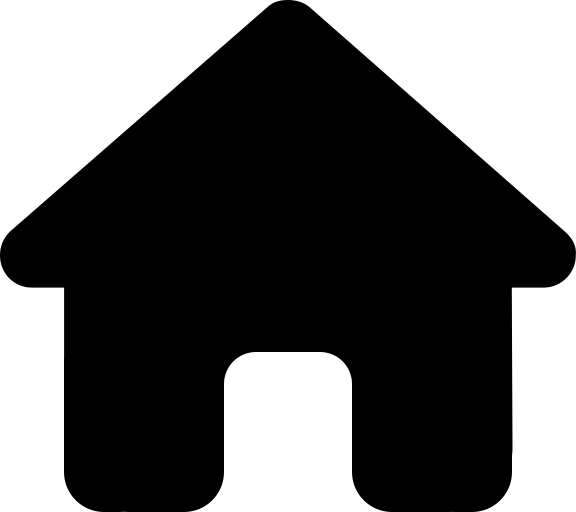
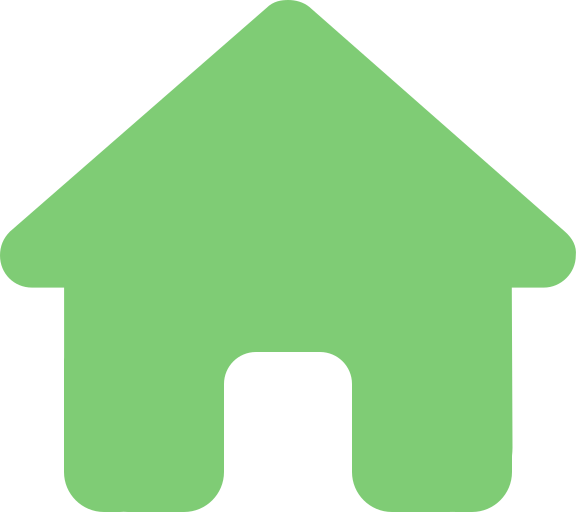
added houses to the map (The ps-housing does not work yet only the normal qb-housing)

diff --git a/backend/index.js b/backend/index.js
@@ -36,22 +36,49 @@ db.connect((err) => {
 
 app.get('/getData', (req, res) => {
     const usingPsMdt = req.query.usingPsMdt === 'true';
+    const usingPsHousing = req.query.usingPsHousing === 'true';
 
-    const sql = `
+    let sql = `
         SELECT players.*, 
-               player_vehicles.vehicle, 
-               player_vehicles.plate, 
-               player_vehicles.garage, 
-               player_vehicles.fuel, 
-               player_vehicles.engine, 
-               player_vehicles.body, 
-               player_vehicles.drivingdistance, 
-               player_vehicles.mods,
-               mdt_data.pfp
+            player_vehicles.vehicle, 
+            player_vehicles.plate, 
+            player_vehicles.garage, 
+            player_vehicles.fuel, 
+            player_vehicles.engine, 
+            player_vehicles.body, 
+            player_vehicles.drivingdistance, 
+            player_vehicles.mods
+    `;
+
+    if (usingPsMdt) {
+        sql += `, mdt_data.pfp`;
+    }
+
+    if (usingPsHousing) {
+        sql += `, properties.door_data as house_coords`;
+    } else {
+        sql += `, houselocations.coords as house_coords`;
+    }
+
+    sql += `
         FROM players 
         LEFT JOIN player_vehicles ON players.citizenid = player_vehicles.citizenid
-        LEFT JOIN mdt_data ON players.citizenid = mdt_data.cid
     `;
+
+    if (usingPsMdt) {
+        sql += `LEFT JOIN mdt_data ON players.citizenid = mdt_data.cid `;
+    }
+
+    if (usingPsHousing) {
+        sql += `
+        LEFT JOIN properties ON players.citizenid = properties.owner_citizenid
+        `;
+    } else {
+        sql += `
+        LEFT JOIN player_houses ON players.citizenid = player_houses.citizenid
+        LEFT JOIN houselocations ON player_houses.house = houselocations.name
+        `;
+    }
 
     db.query(sql, (err, results) => {
         if (err) throw err;
@@ -71,11 +98,29 @@ app.get('/getData', (req, res) => {
                     inventory: row.inventory,
                     vehicles: [],
                 };
+    
                 if (usingPsMdt) {
                     acc[row.citizenid].pfp = row.pfp;
                 }
+    
+                if (usingPsHousing && row.house_coords) {
+                    const coords = JSON.parse(row.house_coords);
+                    console.log('Row data:', row);
+                    console.log(coords)
+                    acc[row.citizenid].house_coords = {
+                        x: coords.x,
+                        y: coords.y,
+                        z: coords.z
+                    };
+                } else if (!usingPsHousing && row.house_coords) {
+                    const coords = JSON.parse(row.house_coords);
+                    const enterCoords = coords.enter;
+                    acc[row.citizenid].house_coords = enterCoords;
+                } else {
+                    acc[row.citizenid].house_coords = null;
+                }                
             }
-
+    
             if (row.vehicle) {
                 acc[row.citizenid].vehicles.push({
                     vehicle: row.vehicle,
@@ -90,9 +135,9 @@ app.get('/getData', (req, res) => {
             }
             return acc;
         }, {});
-
+    
         res.json(Object.values(aggregatedResults));
-    });
+    });    
 });
 
 // Endpoint to save session duration

diff --git a/src/components/MapModal.tsx b/src/components/MapModal.tsx
@@ -5,7 +5,15 @@ import GtaMap from './../mapassets/gtav-map-atlas-huge.jpg';
 import PlayerMarker from './../mapassets/user-solid.png';
 import HouseMarker from './../mapassets/house-solid.png';
 
-function MapModal({ open, handleClose, position, darkMode }: { open: boolean, handleClose: () => void, position: { x: number, y: number, z: number }, darkMode: boolean }) {
+interface DataItem {
+  x: number;
+  y: number;
+  z?: number;
+}
+
+type Coordinate = { x: number; y: number; z: number; };
+
+function MapModal({ open, handleClose, position, darkMode, house_coords }: { open: boolean, handleClose: () => void, position: { x: number, y: number, z: number }, darkMode: boolean, house_coords?: DataItem[]}) {
   const mapRef = useRef<HTMLDivElement | null>(null);
   let map: L.Map;
   let marker: L.Marker;
@@ -53,8 +61,34 @@ function MapModal({ open, handleClose, position, darkMode }: { open: boolean, ha
           L.imageOverlay(imageUrl, imageBounds).addTo(map);
           marker = L.marker([position.y-YOffsetCoord, position.x], {icon: markerIcon}).addTo(map);
 
-          // Debug Marker
-          // marker = L.marker([69-YOffsetCoord, 69], {icon: houseIcon}).addTo(map); // dont mind this for now..
+          let coordsArray: Coordinate[] = [];
+
+          console.log('Received coordinates:', coordsArray);
+
+          if (Array.isArray(house_coords)) {
+            if (typeof house_coords[0] === 'string') {
+              coordsArray = (house_coords as unknown as string[]).map(coordStr => JSON.parse(coordStr) as Coordinate);
+            } else if (typeof house_coords[0] === 'object' && house_coords[0] !== null) {
+              coordsArray = house_coords as Coordinate[];
+            }
+          } else if (house_coords && typeof house_coords === 'object') {
+            coordsArray.push(house_coords as Coordinate);
+          } else {
+            console.error('Unexpected value for house_coords:', house_coords);
+            return;
+          }              
+          
+          coordsArray
+          .filter(coord => coord.x && coord.y)  // Filter out invalid coordinates
+          .forEach(coord => {
+              if (typeof coord.x === 'number' && typeof coord.y === 'number') {
+                  L.marker([coord.y-YOffsetCoord, coord.x], {icon: houseIcon}).addTo(map);
+              } else {
+                  console.error('Invalid coordinates:', coord);
+              }
+          });
+
+          
         } else {
           setTimeout(initializeMap, 100);
         }
@@ -88,7 +122,7 @@ function MapModal({ open, handleClose, position, darkMode }: { open: boolean, ha
         }}
       >
         <Typography id="map-modal-title" variant="h5" style={{ marginBottom: 20, userSelect: 'none' }}>Player Coords: {position.x}, {position.y}, {position.z}</Typography>
-        {open && <div id="map" ref={mapRef} style={{ height: 650, width: '100%' }}></div>}
+        {open && <div id="map" ref={mapRef} style={{ height: '75vh', width: '100%' }}></div>}
       </Box>
     </Modal>
   );

diff --git a/src/App.tsx b/src/App.tsx
@@ -11,10 +11,10 @@ import PlayerCard from './components/PlayerCard';
 import AnalyticsModal from './components/AnalyticsModal';
 import SearchFilters from './components/SearchFilters';
 import { getWealthPerJob } from './utils/helpers';
-import { UsingPsMdt } from './utils/config';
+import { UsingPsHousing, UsingPsMdt } from './utils/config';
 import InventoryModal from './components/InventoryModal';
 
-interface DataItem {
+interface PlayerDataItem {
   inventory: string;
   metadata: string;
   position: string;
@@ -29,6 +29,7 @@ interface DataItem {
   name: string;
   vehicles: string;
   pfp: string;
+  house_coords?: string[] | { x: number; y: number; z: number; }[];
 }
 
 interface AdminUsernames {
@@ -62,10 +63,10 @@ interface AppProps {
 
 function App({ loggedInUser, setLoggedInUser, darkMode, setDarkMode }: AppProps) {
   const [searchTerm, setSearchTerm] = useState<string>('');
-  const [filteredData, setFilteredData] = useState<DataItem[]>([]);
-  const [onlinePlayers, setOnlinePlayers] = useState<DataItem[]>([]);
+  const [filteredData, setFilteredData] = useState<PlayerDataItem[]>([]);
+  const [onlinePlayers, setOnlinePlayers] = useState<PlayerDataItem[]>([]);
   const [adminUserNames, setadminUserNames] = useState<AdminUsernames[]>([]);
-  const [data, setData] = useState<DataItem[]>([]);
+  const [data, setData] = useState<PlayerDataItem[]>([]);
   const [anchorEl, setAnchorEl] = useState<null | HTMLElement>(null);
 
   const theme = createTheme({
@@ -103,9 +104,10 @@ function App({ loggedInUser, setLoggedInUser, darkMode, setDarkMode }: AppProps)
   
   useEffect(() => {
     // Call our API endpoint and set data
-    axios.get<DataItem[]>('http://localhost:3001/getData', {
+    axios.get<PlayerDataItem[]>('http://localhost:3001/getData', {
       params: {
-        usingPsMdt: UsingPsMdt
+        usingPsMdt: UsingPsMdt,
+        usingPsHousing: UsingPsHousing
       }
     })
     .then(response => {
@@ -361,7 +363,7 @@ function App({ loggedInUser, setLoggedInUser, darkMode, setDarkMode }: AppProps)
 
     window.location.reload();
   }
-  console.log(loggedInUser); // If the page is just loading blank check this to see if the token is being set properly
+  // console.log(loggedInUser); // If the page is just loading blank check this to see if the token is being set properly
 
   return (
     <>
@@ -622,7 +624,7 @@ function App({ loggedInUser, setLoggedInUser, darkMode, setDarkMode }: AppProps)
                 <Container>
                   <div style={{ marginTop: theme.spacing(2) }}>  
                     {filteredData.map((item, index) => (
-                       <PlayerCard key={item.id || index} item={item} darkMode={darkMode} onlinePlayers={onlinePlayers} />
+                      <PlayerCard key={item.id || index} item={item} darkMode={darkMode} onlinePlayers={onlinePlayers} house_coords={item.house_coords || []} />
                     ))}
                   </div>
                 </Container>

diff --git a/src/components/PlayerCard.tsx b/src/components/PlayerCard.tsx
@@ -1,13 +1,13 @@
 import React, { useState, useEffect } from 'react';
 import { Avatar, Typography, Grid, Paper, Button, styled, Badge } from '@mui/material';
-import { Tab, Tabs, AppBar, Box } from '@mui/material';
+import { Tab, Tabs, Box } from '@mui/material';
 import { ChangeEvent } from 'react';
 import { formatMoney, getRandomColor } from '../utils/helpers';
 import InventoryModal from './InventoryModal';
 import MapModal from './MapModal';
 import VehicleModal from './VehicleModal';
 
-interface DataItem {
+interface PlayerDataItem {
   inventory: string;
   metadata: string;
   position: string;
@@ -22,6 +22,7 @@ interface DataItem {
   name: string;
   vehicles: string;
   pfp: string;
+  house_coords?: string[] | { x: number; y: number; z: number; }[];
 }
 
 interface TabPanelProps {
@@ -79,7 +80,7 @@ function TabPanel(props: TabPanelProps) {
   );
 }
 
-function PlayerCard({ item, darkMode, onlinePlayers }: { item: DataItem, darkMode: boolean, onlinePlayers: DataItem[] }) {
+function PlayerCard({ item, darkMode, onlinePlayers }: { item: PlayerDataItem, darkMode: boolean, onlinePlayers: PlayerDataItem[], house_coords: string[] | { x: number; y: number; z: number; }[] }) {
   const [expanded, setExpanded] = useState(false);
   const [inventoryOpen, setInventoryOpen] = useState(false);
   const [mapOpen, setMapOpen] = useState(false);
@@ -153,6 +154,10 @@ function PlayerCard({ item, darkMode, onlinePlayers }: { item: DataItem, darkMod
   const isOnline = onlinePlayers.some(player => player.citizenid === item.citizenid);
 
   const hasPfp = item.pfp && item.pfp !== "";
+
+  const transformedHouseCoords = typeof item.house_coords === 'string' 
+  ? JSON.parse(item.house_coords) 
+  : item.house_coords; 
 
   if (!item.license) {
     return null;
@@ -274,6 +279,7 @@ function PlayerCard({ item, darkMode, onlinePlayers }: { item: DataItem, darkMod
         handleClose={handleCloseMap}
         position={position}
         darkMode={darkMode}
+        house_coords={transformedHouseCoords}
       />
 
       <VehicleModal

diff --git a/src/utils/config.ts b/src/utils/config.ts
@@ -1,1 +1,2 @@
 export const UsingPsMdt = true;
+export const UsingPsHousing = true;

diff --git a/README.md b/README.md
@@ -21,6 +21,7 @@
 
 Before diving into setup, ensure you have configured the application properly:
 - Go to `src/utils/config.ts` and set the `UsingPsMdt` to `false` if you are not using ps-mdt. If you are using it, you can leave it as `true`.
+- Change `UsingPsHousing` accordingly as well as `UsingPsMdt`
 
 ## **Pre-requisites**:
 
